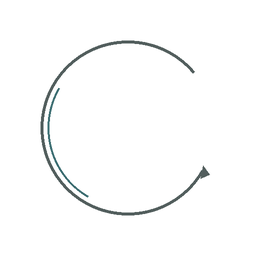
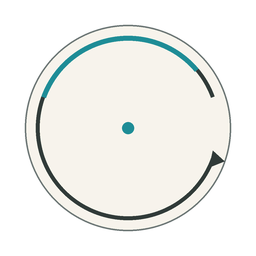
连携说明精简 + 自动战斗转圈重画 + 护盾层级/状态文字修
1. 连携提示从"长段规则"改为 4 行：效果 / 条件 / 消耗 / 当前（用户："直接说明效果是什么就行了"）。
2. 自动战斗转圈（Resources/Battle/UI_Battle_Spin）：浅色水墨底上原来的细墨环看不清 ⇒
   半透明纸圆盘打底 + 深墨粗环 + 亮青弧 + 箭头 + 青芯，对比度拉满。
3. 护盾：牌与文字的 sortingOrder 2/6 → 6/7（原来低于血条填充 3，被压在血条下面看不见）；
   位置保持"血条右端内侧"。
4. 状态图标无图时显示中文首字（原来显示英文 id，用户看到 "shock"）：Abbr → Name[0] → id。

diff --git a/Assets/WanXiang/Modules/Battle/Presentation/BattleStage2D.cs b/Assets/WanXiang/Modules/Battle/Presentation/BattleStage2D.cs
@@ -1219,7 +1219,7 @@ return Sprite.Create(tex, new Rect(0, 0, size, size), new Vector2(0.5f, 0.5f), 1
                 float shX = HpBarWidth * 0.5f - ShieldPlateW * 0.5f - 0.03f;
                 view.ShieldPlate = MakeChildSprite(headGo, "ShieldPlate", ShieldColor,
                                                    new Vector2(ShieldPlateW, ShieldPlateH),
-                                                   new Vector2(shX, 0f), 2);
+                                                   new Vector2(shX, 0f), 6);   // 压过血条填充(3)，才看得见
                 var shTxtGo = new GameObject("ShieldText");
                 shTxtGo.transform.SetParent(headGo.transform, false);  // ⛔ 挂 Head（不挂蓝牌，避免继承牌面缩放）
                 shTxtGo.transform.localPosition = new Vector3(shX, 0f, -0.02f);
@@ -1229,7 +1229,7 @@ return Sprite.Create(tex, new Rect(0, 0, size, size), new Vector2(0.5f, 0.5f), 1
                 {
                     view.ShieldText.font = shFont;
                     var shMr = shTxtGo.GetComponent<MeshRenderer>();
-                    if (shMr != null) { shMr.sharedMaterial = shFont.material; shMr.sortingOrder = 6; }
+                    if (shMr != null) { shMr.sharedMaterial = shFont.material; shMr.sortingOrder = 7; }
                 }
                 view.ShieldText.text = "";
                 view.ShieldText.characterSize = ShieldTextSize;
@@ -1748,8 +1748,15 @@ return Sprite.Create(tex, new Rect(0, 0, size, size), new Vector2(0.5f, 0.5f), 1
                         plate.sprite = SolidSprite(Color.white, 32, 32, 2, new Color(0.10f, 0.08f, 0.06f));
                         plate.color = def != null ? def.Color : new Color(0.6f, 0.6f, 0.6f);
                         if (label != null)
-                            label.text = ((def != null && !string.IsNullOrEmpty(def.Abbr)) ? def.Abbr : kv[0])
-                                       + (stacks > 1 ? stacks.ToString() : "");
+                        {
+                            // ⛔ 原来回退用的是状态 id（英文，如 "shock"）—— 用户看到"shock"截图。
+                            //   改为：Abbr → 中文名首字 → id 首字母。
+                            var sdef = WanXiang.Battle.Core.StatusCatalog.Get(kv[0]);
+                            string nm = def != null && !string.IsNullOrEmpty(def.Abbr) ? def.Abbr
+                                      : (!string.IsNullOrEmpty(sdef.Name) ? sdef.Name.Substring(0, 1)
+                                                                                          : kv[0]);
+                            label.text = nm + (stacks > 1 ? stacks.ToString() : "");
+                        }
                     }
                     // ★ 按图的实际尺寸归一化（2026-10-09 根因修复）：
                     //   槽位缩放 = StatusIconSize / 图宽 ， 图标世界尺寸恒等于 StatusIconSize。

diff --git a/Assets/WanXiang/Modules/UI/BattlePanel.Tip.cs b/Assets/WanXiang/Modules/UI/BattlePanel.Tip.cs
@@ -138,11 +138,11 @@ namespace WanXiang.Modules.UI
                 var why = pendingUnit != null && _play.State != null
                     ? ComboRules.WhyNot(_play.State, pendingUnit)
                     : "没有待令单位";
-                body = "**阵形连携**：与是哪只异兽无关 —— 只要【中宫有主兽】且阵形要求的格位\n"
-                     + "都被存活队友占据，就能发动（4 种阵形：鱼鳞阵 / 云龙阵 / 锋矢阵 / 雁行阵）。\n"
-                     + "消耗：主兽满份大招能量 + 每存活 1 只 1 点灵力；威力随存活数提升。\n\n当前："
-                     + (why ?? "可以发动")
-                     + "\n\n发动时机：连携占用主兽本次行动，成功与否都要先过 QTE。";
+                // ★ 2026-10-20 用户："不用那么复杂的说明，直接说明效果是什么就行了"
+                body = "效果：全员追加一次普攻；中宫主兽按阵形释放一次全体技。\n"
+                     + "条件：中宫有主兽，且阵形格位被占满（下方阵形栏亮起即可）。\n"
+                     + "消耗：主兽满大招能量 + 每存活 1 只 1 点灵力。\n\n当前："
+                     + (why ?? "可以发动");
             }
 
             // ★ 修复（用户 2026-09-28 报障："连携可以释放时悬浮提示就没了"）：
